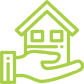
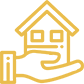
Update

Changed region(s): [[0.0, 0.0, 1.0, 1.0], [0.0714, 0.6667, 0.119, 0.7143]]

diff --git a/style.css b/style.css
@@ -445,7 +445,7 @@ body.realestate_version .social-links:hover a{
 }
 
 .header_style_01 .navbar-default .navbar-nav > li a.active {
-	background-color: #a8cf45;
+	background-color: #EABD4D;
 	color: #ffffff;
 	border-radius: 2px;
 }
@@ -557,7 +557,7 @@ body.realestate_version .header_style_01 .navbar-right > li.search-option button
 	line-height: 43px;
 	width: 45px;
 	color: #fff;
-	background: #a8cf45;
+	background: #EABD4D;
 	border: none;
 	transition: all .3s ease-in-out;
 	border-radius: 2px;
@@ -594,7 +594,7 @@ body.realestate_version .header_style_01 .navbar-right > li.search-option form b
 	display: block;
 	width: 48px;
 	color: #fff;
-	background: #a8cf45;
+	background: #EABD4D;
 	border: 1px solid #fff;
 	border-left: none;
 	line-height: 40px;
@@ -1118,7 +1118,7 @@ body.realestate_version .header_style_01 .navbar-right > li.search-option form b
 }
 
 .top-feature .center .single-feature, .top-feature .single-feature:hover {
-    border-bottom-color: #a8cf45;
+    border-bottom-color: #EABD4D;
 }
 
 
@@ -1288,7 +1288,7 @@ body.realestate_version .header_style_01 .navbar-right > li.search-option form b
     position: absolute;
     top: 20px;
     right: 12px;
-	background: #a8cf45;
+	background: #EABD4D;
 	-webkit-border-radius: 2px;
 	-moz-border-radius: 2px;
 	border-radius: 2px;
@@ -1307,7 +1307,7 @@ body.realestate_version .header_style_01 .navbar-right > li.search-option form b
     z-index: 4;
     color: #fff;
     text-align: left;
-    background: #a8cf45;
+    background: #EABD4D;
 	-webkit-border-radius: 2px;
 	-moz-border-radius: 2px;
 	border-radius: 2px;
@@ -1418,7 +1418,7 @@ body.realestate_version .header_style_01 .navbar-right > li.search-option form b
 
 .post-media {
     position: relative;
-	border: 8px solid #a8cf45;	
+	border: 8px solid #EABD4D;	
 }
 
 .post-media img {
@@ -1442,7 +1442,7 @@ body.realestate_version .header_style_01 .navbar-right > li.search-option form b
 }
 
 .hoverbutton {
-    background-color: #a8cf45;
+    background-color: #EABD4D;
     position: absolute;
     color: #1f1f1f !important;
     top: 48%;
@@ -2202,7 +2202,7 @@ select.mobile-device {
 
 .footer-links a:hover,
 .footer a:hover {
-    color: #a8cf45;
+    color: #EABD4D;
 }
 
 .footer-links li {
@@ -2342,7 +2342,7 @@ select.mobile-device {
 }
 
 .footer-distributed .footer-company-name a:hover{
-	color: #a8cf45;
+	color: #EABD4D;
 }
 
 
@@ -2366,7 +2366,7 @@ select.mobile-device {
 }
 
 .dmtop {
-    background-color: #a8cf45;
+    background-color: #EABD4D;
     z-index: 100;
     width: 50px;
     height: 50px;
@@ -2425,7 +2425,7 @@ select.mobile-device {
     right: 0;
     bottom: 0;
     left: 0;
-    background: #a8cf45;
+    background: #EABD4D;
     z-index: 11000;
     position: fixed;
     display: block;
@@ -2589,7 +2589,7 @@ select.mobile-device {
 }
 
 #breadcrumbs {
-	background: #a8cf45;
+	background: #EABD4D;
 	padding: 10px 20px;
     position: absolute;
     right: 0px;
@@ -2617,7 +2617,7 @@ select.mobile-device {
 	color: #ffffff;
 }
 #breadcrumbs:hover ul li a{
-	color: #a8cf45;
+	color: #EABD4D;
 }
 #breadcrumbs ul li:first-child::before {
 	display: none;
@@ -2651,7 +2651,7 @@ select.mobile-device {
 	display: block;
 	font-size: 28px;
 	color: #ffffff;	
-	background: #a8cf45;
+	background: #EABD4D;
 	width: 48px;
 	height: 48px;
 	line-height: 48px;

diff --git a/css/versions.css b/css/versions.css
@@ -28,19 +28,19 @@ body.realestate_version .section-title small,
 body.realestate_version .property-detail i,
 body.realestate_version .customwidget li i,
 body.realestate_version .navbar-nav span {
-    color: #a8cf45;
+    color: #EABD4D;
 }
 
 body.realestate_version .lead strong,
 body.realestate_version .icon-wrapper:hover a,
 body.realestate_version a:hover,
 body.realestate_version a:focus {
-    color: #a8cf45
+    color: #EABD4D
 }
 
 body.realestate_version .property-detail i,
 body.realestate_version .property-detail .col-md-3:hover img {
-    border-color: #a8cf45;
+    border-color: #EABD4D;
 }
 
 body.realestate_version .btn-light {
@@ -59,7 +59,7 @@ body.realestate_version .nav-pills > li.active > a:hover,
 body.realestate_version .icon-wrapper:hover i,
 body.realestate_version .grd1 {
     color: #ffffff;
-    background: #a8cf45;    
+    background: #EABD4D;    
 }
 
 body.realestate_version .icon_wrap,
@@ -85,7 +85,7 @@ body.realestate_version .grd1:focus {
 
 body.realestate_version .effect-1,
 body.realestate_version .effect-1:after {
-    box-shadow: 0 0 0 2px #a8cf45;
+    box-shadow: 0 0 0 2px #EABD4D;
     border-radius: 0 !important;
 }
 
@@ -109,7 +109,7 @@ body.realestate_version .property-detail h4 {
 
 body.realestate_version .property-detail i {
     max-width: 80px;
-    color: #a8cf45;
+    color: #EABD4D;
     background-color: #fff !important;
     margin: 0 auto;
     padding: 0;
@@ -198,7 +198,7 @@ body.realestate_version .agencies_meta span a {
 }
 
 body.realestate_version .agencies_meta span a:hover {
-	color: #a8cf45;
+	color: #EABD4D;
 }
 
 body.realestate_version .agencies_meta span i {
